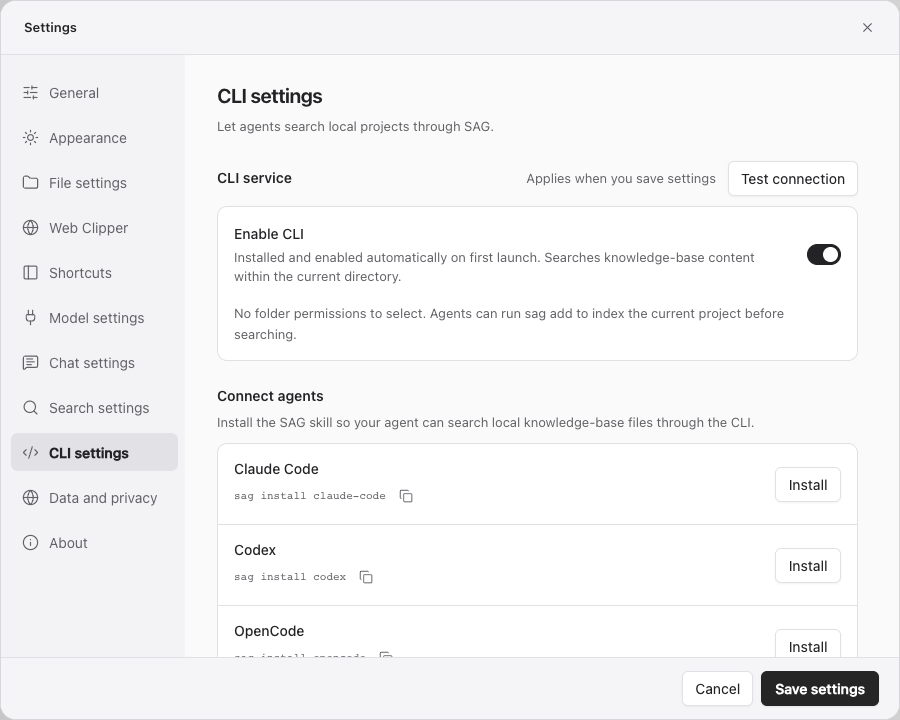
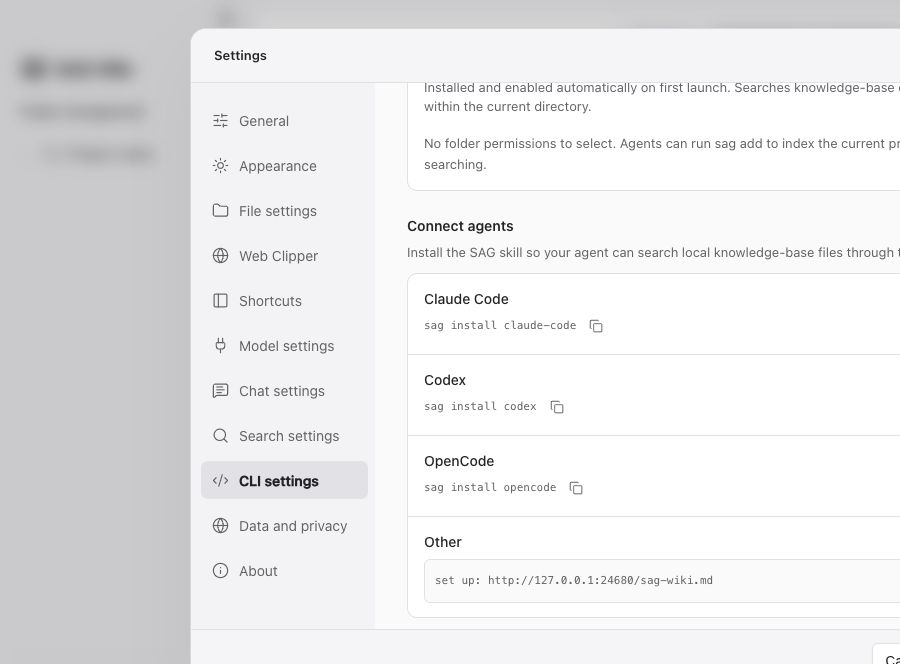
Serve local SAG skill setup instructions
(cherry picked from commit ead6b613383a43184bada34894c6c55208d54454)

diff --git a/tests/cli-settings.test.ts b/tests/cli-settings.test.ts
@@ -11,24 +11,21 @@ const value:Settings={answer:{url:'https://example.com/v1',model:'test',models:[
 let installed=new Set(['cli']);
 beforeEach(()=>{installed=new Set(['cli']);setLanguage('zh-CN');invoke.mockImplementation(async(command,args)=>{
  if(command==='list_roots')return [{path:'/project',name:'Project',status:'ready',count:5,error:null}];
- if(command==='get_cli_settings')return {access:{enabled:false,roots:[]},installations:['cli','claude-code','codex','opencode'].map(name=>({name,path:`/home/skills/${name}`,installed:installed.has(name),version:installed.has(name)?'0.1.0':null}))};
+ if(command==='get_cli_settings')return {skill_url:'http://127.0.0.1:24680/sag-wiki.md',access:{enabled:false,roots:[]},installations:['cli','claude-code','codex','opencode'].map(name=>({name,path:`/home/skills/${name}`,installed:installed.has(name),version:installed.has(name)?'0.1.0':null}))};
  if(command==='install_cli_integration'){args.uninstall?installed.delete(args.target):installed.add(args.target);return 'installed';}
 });});
 afterEach(async()=>{await unmount(app);document.body.innerHTML='';vi.useRealTimers();vi.clearAllMocks();vi.restoreAllMocks();});
 function click(text:string){const button=[...document.querySelectorAll<HTMLButtonElement>('button')].find(button=>button.textContent?.trim()===text);expect(button,text).toBeDefined();button!.click();}
 async function ready(){await vi.waitFor(()=>expect(document.querySelector('[aria-label="启用 CLI"]')).not.toBeNull());}
-it('Windows Skill 安装位置与下载提示显示普通路径',async()=>{
+it('Windows Skill 安装位置显示普通路径',async()=>{
  const path=String.raw`\\?\C:\Users\PC\skills\sag`;
  invoke.mockImplementation(async command=>{
-  if(command==='get_cli_settings')return{access:{enabled:false,roots:[]},installations:[{name:'codex',path,installed:true,version:'0.1.0'}]};
-  if(command==='download_cli_skill')return path;
+  if(command==='get_cli_settings')return{skill_url:'http://127.0.0.1:24680/sag-wiki.md',access:{enabled:false,roots:[]},installations:[{name:'codex',path,installed:true,version:'0.1.0'}]};
  });
  app=mount(SettingsPanel,{target:document.body,props:{value,initial:'cli',onSave:vi.fn(),onClose:vi.fn()}});await ready();
  document.querySelector<HTMLButtonElement>('.cli-location button')!.click();await tick();
  expect(document.querySelector('.cli-skill-path code')?.textContent).toBe(String.raw`C:\Users\PC\skills\sag`);
- document.querySelector<HTMLButtonElement>('[aria-label="下载 SAG Skill"]')!.click();
- await vi.waitFor(()=>expect(document.querySelector('.cli-feedback[role=status]')?.textContent).toContain(String.raw`C:\Users\PC\skills\sag`));
- expect(document.querySelector('.cli-feedback[role=status]')?.textContent).not.toContain('\\\\?\\');
+
 });
 
 it('saves CLI enabled changes only with the settings form, across tab switches and installation refreshes',async()=>{
@@ -82,7 +79,7 @@ it.each([['claude-code','Claude Code'],['codex','Codex'],['opencode','OpenCode']
  installed.clear();
  app=mount(SettingsPanel,{target:document.body,props:{value,initial:'cli',onSave:vi.fn(),onClose:vi.fn()}});await ready();
  expect(document.querySelectorAll('.cli-install-row')).toHaveLength(4);
- for(const row of document.querySelectorAll('.cli-install-row')){
+ for(const row of [...document.querySelectorAll('.cli-install-row')].slice(0,3)){
   expect(row.querySelectorAll('.cli-action')).toHaveLength(1);
   expect(row.textContent).not.toMatch(/已安装|未安装/);
  }
@@ -288,37 +285,37 @@ it('shows the usage guide last, collapsed by default, without submitting setting
  expect(trigger.getAttribute('aria-expanded')).toBe('false');
 });
 
-it('downloads the complete skill through the last Other row without installing an integration',async()=>{
+it('copies the local setup instruction from Other without installing or downloading',async()=>{
+ const writeText=vi.spyOn(navigator.clipboard,'writeText').mockResolvedValue(undefined);
  app=mount(SettingsPanel,{target:document.body,props:{value,initial:'cli',onSave:vi.fn(),onClose:vi.fn()}});await ready();
- const rows=document.querySelectorAll('.cli-install-row');
- expect(rows[rows.length-1].textContent).toContain('其他');
- expect(rows[rows.length-1].textContent).toContain('下载完整 Skill 文件夹');
- const download=document.querySelector<HTMLButtonElement>('[aria-label="下载 SAG Skill"]')!;
- expect(download.textContent).toBe('下载');
- invoke.mockImplementationOnce(async()=>'/Downloads/sag');download.click();
- await vi.waitFor(()=>expect(document.querySelector('.cli-feedback[role=status]')?.textContent).toContain('/Downloads/sag'));
- expect(invoke).toHaveBeenCalledWith('download_cli_skill',{title:'选择 Skill 保存位置'});
- expect(invoke.mock.calls.some(([command])=>command==='install_cli_integration')).toBe(false);
- expect(download.textContent).toBe('下载');
+ const row=document.querySelectorAll('.cli-install-row')[3];
+ expect(row.textContent).toContain('其他');
+ expect(row.querySelector('code')?.textContent).toBe('set up: http://127.0.0.1:24680/sag-wiki.md');
+ expect(row.textContent).not.toContain('下载');
+ row.querySelector<HTMLButtonElement>('[aria-label="复制其他 Agent 安装指令"]')!.click();
+ await vi.waitFor(()=>expect(document.querySelector('.cli-feedback[role=status]')?.textContent).toContain('已复制 其他 Agent 的安装命令'));
+ expect(writeText).toHaveBeenCalledWith('set up: http://127.0.0.1:24680/sag-wiki.md');
+ expect(invoke.mock.calls.some(([command])=>command==='install_cli_integration'||command==='download_cli_skill')).toBe(false);
 });
 
-it('keeps cancellation silent and makes a failed download retryable',async()=>{
+it('shows copy failures and allows retrying the local setup instruction',async()=>{
+ const writeText=vi.spyOn(navigator.clipboard,'writeText').mockRejectedValueOnce(Error('Clipboard unavailable')).mockResolvedValue(undefined);
  app=mount(SettingsPanel,{target:document.body,props:{value,initial:'cli',onSave:vi.fn(),onClose:vi.fn()}});await ready();
- const download=document.querySelector<HTMLButtonElement>('[aria-label="下载 SAG Skill"]')!;
- invoke.mockResolvedValueOnce(null);download.click();await tick();
- await vi.waitFor(()=>expect(download.disabled).toBe(false));
- expect(document.querySelector('.cli-feedback')).toBeNull();
- invoke.mockRejectedValueOnce(Error('无法创建 Skill 文件夹'));download.click();
- await vi.waitFor(()=>expect(document.querySelector('.cli-error')?.textContent).toContain('无法创建 Skill 文件夹'));
- expect(download.disabled).toBe(false);
+ const copy=document.querySelector<HTMLButtonElement>('[aria-label="复制其他 Agent 安装指令"]')!;
+ copy.click();
+ await vi.waitFor(()=>expect(document.querySelector('.cli-error')?.textContent).toContain('Clipboard unavailable'));
+ expect(copy.disabled).toBe(false);copy.click();
+ await vi.waitFor(()=>expect(document.querySelector('.cli-feedback[role=status]')?.textContent).toContain('已复制'));
+ expect(writeText).toHaveBeenCalledTimes(2);expect(document.querySelector('.cli-error')).toBeNull();
 });
 
-it('translates the download row and success message',async()=>{
+it('translates the local setup row and copy feedback',async()=>{
+ vi.spyOn(navigator.clipboard,'writeText').mockResolvedValue(undefined);
  app=mount(SettingsPanel,{target:document.body,props:{value,initial:'cli',onSave:vi.fn(),onClose:vi.fn()}});await ready();
  setLanguage('en');await tick();
- const download=document.querySelector<HTMLButtonElement>('[aria-label="Download SAG Skill"]')!;
+ const copy=document.querySelector<HTMLButtonElement>('[aria-label="Copy setup instruction for other agents"]')!;
  expect(document.querySelectorAll('.cli-install-row')[3].textContent).toContain('Other');
- invoke.mockResolvedValueOnce('/Downloads/sag');download.click();
- await vi.waitFor(()=>expect(document.querySelector('.cli-feedback[role=status]')?.textContent).toContain('Skill downloaded to /Downloads/sag'));
- expect(invoke).toHaveBeenCalledWith('download_cli_skill',{title:'Choose where to save the Skill'});
+ copy.click();
+ await vi.waitFor(()=>expect(document.querySelector('.cli-feedback[role=status]')?.textContent).toContain('Other agents'));
+ expect(document.querySelector('code[aria-label="Setup instruction for other agents"]')?.textContent).toBe('set up: http://127.0.0.1:24680/sag-wiki.md');
 });

diff --git a/src/components/CliSettings.svelte b/src/components/CliSettings.svelte
@@ -16,10 +16,10 @@
  export let connectionOpen=false;
  export let connectionSuccessUntil=0;
  type Installation={name:string;path:string;installed:boolean;version:string|null};
- let installations:Installation[]=[],loaded=false,error='',notice='';
+ let installations:Installation[]=[],loaded=false,error='',notice='',skillUrl='';
  let connectionSuccessVisible=false,disposed=false;
  let connectionTimer:ReturnType<typeof setTimeout>|undefined;
- let operation:{target:string;kind:'install'|'uninstall'|'test'|'download'}|null=null;
+ let operation:{target:string;kind:'install'|'uninstall'|'test'}|null=null;
  let copiedCommand:string|null=null;
  let savedAccess:CliAccess|undefined;
  const successFadeDuration=window.matchMedia('(prefers-reduced-motion: reduce)').matches?0:800;
@@ -41,10 +41,10 @@
  }
 
  async function load(){
-  const config=await api<{access:CliAccess;installations:Installation[];install_error?:string|null}>('get_cli_settings');
+  const config=await api<{access:CliAccess;installations:Installation[];install_error?:string|null;skill_url:string}>('get_cli_settings');
   savedAccess=config.access;
   access=access??config.access;
-  installations=config.installations;error=config.install_error??'';loaded=true;
+  installations=config.installations;skillUrl=config.skill_url;error=config.install_error??'';loaded=true;
  }
  async function refresh(){pending=true;error='';try{await load();}catch(e){error=String(e);}finally{pending=false;}}
  onMount(()=>{void refresh();});
@@ -60,8 +60,8 @@
  async function copyCommand(name:string){
   error='';notice='';copiedCommand=null;
   try{
-   await navigator.clipboard.writeText(`sag install ${name}`);
-   copiedCommand=name;notice=$t('已复制 {value0} 的安装命令',{value0:names[name]});
+   await navigator.clipboard.writeText(name==='other'?`set up: ${skillUrl}`:`sag install ${name}`);
+   copiedCommand=name;notice=$t('已复制 {value0} 的安装命令',{value0:name==='other'?$t('其他 Agent'):names[name]});
   }catch(e){error=$t('复制失败：{value0}',{value0:String(e)});}
  }
  async function testConnection(){
@@ -74,13 +74,6 @@
    const result=await api<string>('test_cli_connection');
    if(!disposed){connectionSuccessUntil=Date.now()+3000;connection=result;}
   }catch(e){if(!disposed)error=String(e);}finally{pending=false;operation=null;}
- }
- async function downloadSkill(){
-  pending=true;error='';notice='';operation={target:'other',kind:'download'};
-  try{
-   const path=await api<string|null>('download_cli_skill',{title:$t('选择 Skill 保存位置')});
-   if(path)notice=$t('Skill 已下载到 {value0}。请将 sag 文件夹添加到所用工具的 Skills 目录。',{value0:displayPath(path)});
-  }catch(e){error=String(e);}finally{pending=false;operation=null;}
  }
 </script>
 
@@ -118,8 +111,7 @@
      </div>
     {/each}
     <div class="cli-install-row">
-     <div class="cli-install-info"><strong>{$t('其他')}</strong><p class="cli-download-description">{$t('下载完整 Skill 文件夹，接入到其他Agent。')}</p></div>
-     <Button.Root type="button" class="outline cli-action" disabled={disabled} aria-label={$t('下载 SAG Skill')} onclick={downloadSkill}>{operation?.kind==='download'?$t('下载中…'):$t('下载')}</Button.Root>
+     <div class="cli-install-info"><strong>{$t('其他')}</strong><p class="cli-setup-hint">{$t('复制以下指令，发送给你的 Agent 完成接入。')}</p><div class="cli-command-copy cli-setup-copy"><code class="cli-install-command" aria-label={$t('其他 Agent 的安装指令')}>set up: {skillUrl}</code><Button.Root type="button" class="icon-button cli-copy" disabled={disabled} aria-label={$t('复制其他 Agent 安装指令')} title={copiedCommand==='other'?$t('已复制'):$t('复制安装命令')} onclick={()=>copyCommand('other')}>{@html icon(copiedCommand==='other'?'check':'copy')}</Button.Root></div></div>
     </div>
    </div>
   </section>
@@ -197,7 +189,6 @@ sag --help</code></pre>
  .cli-install-row{display:flex;align-items:center;gap:12px;padding:14px 16px;min-height:68px}
  .cli-install-row+.cli-install-row{border-top:1px solid var(--color-rule)}
  .cli-install-info{flex:1;min-width:0}
- .cli-download-description{margin:4px 0 0;font-size:var(--text-caption);line-height:1.5;color:var(--color-secondary)}
  .cli-settings :global(.cli-action){min-width:66px;min-height:32px;white-space:nowrap;flex-shrink:0}
  .cli-settings :global(.cli-action.cli-uninstall){background:var(--color-danger);border-color:var(--color-danger);color:var(--color-danger-ink)}
  .cli-settings :global(button:disabled){opacity:.5;cursor:default}
@@ -211,6 +202,9 @@ sag --help</code></pre>
  .cli-settings :global(.cli-location-content code){display:block;overflow-wrap:anywhere;font:11px/1.6 var(--font-mono)}
  .cli-settings :global(.cli-location-content p){margin:6px 0 0}
  .cli-command-copy{display:flex;align-items:center;gap:6px;margin-top:3px}
+ .cli-setup-hint{margin:4px 0 0;font-size:var(--text-caption);line-height:1.6;color:var(--color-secondary)}
+ .cli-setup-copy{padding:7px 10px;margin-top:7px;border:1px solid var(--color-rule);border-radius:6px;background:var(--color-panel)}
+ .cli-setup-copy code{flex:1;min-width:0}
  .cli-settings :global(.cli-copy){display:inline-flex;align-items:center;justify-content:center;width:28px;height:28px;flex-shrink:0;color:var(--color-secondary)}
  .cli-settings :global(.cli-copy .icon){width:14px;height:14px}
  .cli-install-command{display:block;user-select:text;overflow-wrap:anywhere;font:11px/1.6 var(--font-mono);color:var(--color-secondary)}

diff --git a/bench/docs.ts b/bench/docs.ts
@@ -36,7 +36,7 @@ const graphEdges=[{source:1,target:2,source_hash:'demo-0',target_hash:'demo-1',s
 const handlers:Record<string,(a:any)=>any>={
  explore_overview:()=>({scope:root,version:1,total:docs.length,documents:graphDocs,known_documents:graphDocs,indexing:false,partial:false}),explore_graph:()=>({scope:root,version:1,snapshot:'demo',documents:graphDocs,edges:graphEdges}),
  get_settings:()=>structuredClone(settings),list_roots:()=>roots,list_files:()=>docs.map(({body,...d})=>d),list_entries:()=>docs.map(d=>({path:d.path,name:d.name,directory:false,symlink:false})),get_index_status:()=>({paused:false,tasks:[]}),list_drafts:()=>[],list_removed_directories:()=>[],list_notes:()=>[],list_conversations:()=>[conversation,{...conversation,id:'previous',title:text('如何收集试用反馈？','How do we collect trial feedback?'),updated:now-86400000}],get_conversation:()=>conversation,read_document:a=>docs.find(d=>d.path===a.path)||docs[0],get_index_history:()=>history,get_index_history_log:()=>({raw:docs.map(d=>JSON.stringify({time:now,path:d.path,stage:'indexing',status:'complete',error:null})).join('\n')+'\n'+JSON.stringify({time:now,path:root+'/archive.pdf',stage:'converting',status:'failed',error:'File cannot be read'})}),
- run_query:()=>({terms:[text('发布','release')],elapsed_ms:120,results:evidence,pagination:null,trace:[],conversation}),summarize_search:()=>({text:answer,evidence}),get_docling_status:()=>docling,docling_status:()=>docling,get_cli_settings:()=>({access:{enabled:true},installations:['claude-code','codex','opencode'].map(name=>({name,path:'',installed:false,version:null}))}),get_web_clipper:()=>({packages:['chrome','safari']}),get_folder_index_options:()=>({file_types:{markdown:true,text:true,code:false,config:false},convert_other_formats:false,conversion_formats:[]}),check_updates:()=>({current_version:version,latest_version:version,available:false,notes:'',download_url:null}),
+ run_query:()=>({terms:[text('发布','release')],elapsed_ms:120,results:evidence,pagination:null,trace:[],conversation}),summarize_search:()=>({text:answer,evidence}),get_docling_status:()=>docling,docling_status:()=>docling,get_cli_settings:()=>({skill_url:'http://127.0.0.1:24680/sag-wiki.md',access:{enabled:true},installations:['claude-code','codex','opencode'].map(name=>({name,path:'',installed:false,version:null}))}),get_web_clipper:()=>({packages:['chrome','safari']}),get_folder_index_options:()=>({file_types:{markdown:true,text:true,code:false,config:false},convert_other_formats:false,conversion_formats:[]}),check_updates:()=>({current_version:version,latest_version:version,available:false,notes:'',download_url:null}),
 };
 (window as any).__TAURI_INTERNALS__={metadata:{currentWindow:{label:'main'},currentWebview:{windowLabel:'main',label:'main'}},invoke:async(command:string,args:any={})=>handlers[command]?handlers[command](args):command.startsWith('plugin:')?0:null,transformCallback:()=>1,unregisterCallback:()=>{},convertFileSrc:(path:string)=>path};
 (window as any).__TAURI_EVENT_PLUGIN_INTERNALS__={unregisterListener:()=>{}};

diff --git a/core/src/skill_http.rs b/core/src/skill_http.rs
@@ -1,0 +1,39 @@
+use anyhow::{bail, Context, Result};
+use tokio::{io::{AsyncBufReadExt, AsyncReadExt, AsyncWriteExt, BufReader}, net::TcpStream};
+
+const SKILL: &str = include_str!("../../cli/skills/sag/SKILL.md");
+
+// Only bundled, public instructions are exposed here; RPC keeps its token authentication.
+pub async fn serve(mut stream: TcpStream) -> Result<()> {
+    let request = tokio::time::timeout(std::time::Duration::from_secs(10), async {
+        let mut reader = BufReader::new(&mut stream);
+        let mut bytes = Vec::new();
+        loop {
+            let start = bytes.len();
+            let count = (&mut reader).take((8193 - start) as u64).read_until(b'\n', &mut bytes).await?;
+            if count == 0 { bail!("HTTP 请求未完成") }
+            if bytes.len() > 8192 { bail!("HTTP 请求头超过上限") }
+            if matches!(&bytes[start..], b"\r\n" | b"\n") { break; }
+        }
+        Ok::<_, anyhow::Error>(bytes)
+    }).await.context("HTTP 请求超时")??;
+    let line = std::str::from_utf8(request.split(|byte| *byte == b'\n').next().unwrap())?;
+    let mut parts = line.split_whitespace();
+    let (method, path, version) = (parts.next(), parts.next(), parts.next());
+    let (status, body) = match (method, path, version) {
+        (Some("GET" | "HEAD"), Some(path), Some("HTTP/1.0" | "HTTP/1.1")) => match path {
+            "/sag-wiki.md" | "/SKILL.md" => ("200 OK", SKILL),
+            "/references/setup.md" => ("200 OK", include_str!("../../cli/skills/sag/references/setup.md")),
+            "/references/parameters.md" => ("200 OK", include_str!("../../cli/skills/sag/references/parameters.md")),
+            "/references/ignores.md" => ("200 OK", include_str!("../../cli/skills/sag/references/ignores.md")),
+            _ => ("404 Not Found", "Not found\n"),
+        },
+        (Some(_), Some(_), Some("HTTP/1.0" | "HTTP/1.1")) => ("405 Method Not Allowed", "Use GET or HEAD\n"),
+        _ => ("400 Bad Request", "Bad request\n"),
+    };
+    let headers = format!("HTTP/1.1 {status}\r\nContent-Type: text/markdown; charset=utf-8\r\nContent-Length: {}\r\nCache-Control: no-store\r\nX-Content-Type-Options: nosniff\r\nConnection: close\r\n\r\n", body.len());
+    stream.write_all(headers.as_bytes()).await?;
+    if method != Some("HEAD") { stream.write_all(body.as_bytes()).await?; }
+    stream.shutdown().await?;
+    Ok(())
+}

diff --git a/core/src/service_tests.rs b/core/src/service_tests.rs
@@ -1269,3 +1269,35 @@ async fn save_note_writes_an_anchored_file_and_tracks_source_changes() {
     assert_eq!(all.len(), 1);
     stop(&client, server).await;
 }
+
+#[tokio::test]
+async fn local_skill_http_serves_bundled_files_without_affecting_rpc() {
+    let (dir, client, server) = start().await;
+    let endpoint: Endpoint = serde_json::from_slice(
+        &std::fs::read(dir.path().join("data/sag-service.json")).unwrap(),
+    ).unwrap();
+    let base = format!("http://127.0.0.1:{}", endpoint.port);
+    let http = reqwest::Client::new();
+    for (path, expected) in [
+        ("/sag-wiki.md", include_str!("../../cli/skills/sag/SKILL.md")),
+        ("/SKILL.md", include_str!("../../cli/skills/sag/SKILL.md")),
+        ("/references/setup.md", include_str!("../../cli/skills/sag/references/setup.md")),
+        ("/references/parameters.md", include_str!("../../cli/skills/sag/references/parameters.md")),
+        ("/references/ignores.md", include_str!("../../cli/skills/sag/references/ignores.md")),
+    ] {
+        let response = http.get(format!("{base}{path}")).send().await.unwrap();
+        assert_eq!(response.status(), 200);
+        assert_eq!(response.headers()["content-type"], "text/markdown; charset=utf-8");
+        assert_eq!(response.text().await.unwrap(), expected);
+    }
+    let head = http.head(format!("{base}/sag-wiki.md")).send().await.unwrap();
+    assert_eq!(head.status(), 200);
+    assert_eq!(head.headers()["content-length"], include_str!("../../cli/skills/sag/SKILL.md").len().to_string());
+    assert!(head.bytes().await.unwrap().is_empty());
+    for path in ["/credentials.json", "/references/other.md", "/sag-service.json"] {
+        assert_eq!(http.get(format!("{base}{path}")).send().await.unwrap().status(), 404);
+    }
+    assert_eq!(http.post(format!("{base}/sag-wiki.md")).send().await.unwrap().status(), 405);
+    assert!(matches!(call(&client, Operation::Info).await, Output::Info(_)));
+    stop(&client, server).await;
+}

diff --git a/src-tauri/src/cli_commands.rs b/src-tauri/src/cli_commands.rs
@@ -10,6 +10,7 @@ pub struct IntegrationSettings {
     access: Access,
     installations: Vec<install::Installation>,
     install_error: Option<String>,
+    skill_url: String,
 }
 #[tauri::command]
 pub async fn get_cli_settings(
@@ -24,9 +25,14 @@ pub async fn get_cli_settings(
                 .map_err(error)?,
         );
     }
+    let access = serde_json::from_value(rpc(&state, Operation::GetAccess).await?).map_err(error)?;
+    let endpoint: sag_protocol::Endpoint = serde_json::from_slice(
+        &std::fs::read(state.data_dir.join("sag-service.json")).map_err(error)?,
+    ).map_err(error)?;
     Ok(IntegrationSettings {
-        access: serde_json::from_value(rpc(&state, Operation::GetAccess).await?).map_err(error)?,
+        access,
         install_error: state.cli_install_error.lock().unwrap().clone(),
+        skill_url: format!("http://127.0.0.1:{}/sag-wiki.md", endpoint.port),
         installations,
     })
 }

diff --git a/core/src/server.rs b/core/src/server.rs
@@ -105,6 +105,13 @@ async fn serve(
     requests: Arc<Semaphore>,
 ) -> Result<()> {
     stream.set_nodelay(true)?;
+    let mut first = [0u8; 1];
+    if tokio::time::timeout(Duration::from_secs(10), stream.peek(&mut first)).await?? == 0 {
+        return Ok(());
+    }
+    if first[0].is_ascii_alphabetic() {
+        return crate::skill_http::serve(stream).await;
+    }
     let (read, write) = stream.into_split();
     let mut read = BufReader::new(read);
     let write = Arc::new(tokio::sync::Mutex::new(write));

diff --git a/core/src/lib.rs b/core/src/lib.rs
@@ -26,3 +26,4 @@ pub mod protocol;
 pub mod explore;
 pub mod service;
 pub mod server;
+mod skill_http;

diff --git a/cli/skills/sag/references/setup.md b/cli/skills/sag/references/setup.md
@@ -15,7 +15,7 @@ When asked to install this Skill and enable SAG for a project, complete the appl
 
    The npm package supports macOS Apple Silicon and Windows x64, and requires Node.js 18 or later. Check the actual system and architecture before installation. If Node.js or npm is missing, arrange Node.js installation through the user's existing package manager or [official installer](https://nodejs.org/en/download), within the environment's permissions. Report an unsupported platform or installation failure directly; source compilation is not part of normal setup. npm owns this command's installation and PATH entry; an additional `sag install cli` is unnecessary.
 
-2. Install the current Skill folder for the active agent at the [location below](#installation-and-removal), including `SKILL.md` and all three references: `setup.md`, `parameters.md`, and `ignores.md`. Retrieve all four files from the [canonical GitHub folder](https://github.com/Zleap-AI/SAG-Wiki/tree/main/cli/skills/sag), without building the repository. Preserve user-edited files and unrelated skills. The npm CLI embeds a release-time Skill snapshot, so `sag install codex`, `sag install claude-code`, or `sag install opencode` may supply older instructions. Keep the GitHub version when following this setup. A new agent session loads it automatically; use the instructions already read to finish the current setup.
+2. Install the current Skill folder for the active agent at the [location below](#installation-and-removal), including `SKILL.md` and all three references: `setup.md`, `parameters.md`, and `ignores.md`. Retrieve all four files from the source URL the user supplied; save a local `sag-wiki.md` entry as `SKILL.md` and keep the `references/` subdirectory. When no source was supplied, use the [canonical GitHub folder](https://github.com/Zleap-AI/SAG-Wiki/tree/main/cli/skills/sag). Preserve user-edited files and unrelated skills. The npm CLI embeds a release-time Skill snapshot, so retain the explicitly supplied version when following this setup. A new agent session loads it automatically; use the instructions already read to finish the current setup.
 
 3. Run `sag config --if-needed` to reuse existing Jev settings. For a user-supplied unauthenticated Jev service, configure `--auth none` as described below. If Bearer authentication needs a key, have the user run `sag` in an interactive terminal and enter their Jev endpoint, model and API key there. The key input is hidden. If credentials were already supplied through a secure local source, use `sag config --key-stdin` as described below. Do not request keys in chat. Only the Jev retrieval configuration is required for CLI semantic search; a desktop answer model is unnecessary.
 

diff --git a/cli/skills/sag/SKILL.md b/cli/skills/sag/SKILL.md
@@ -9,7 +9,7 @@ Run the installed `sag` command from the project directory, not this Skill direc
 
 For installation requests or a missing `sag` command, follow [first-use setup](references/setup.md#first-use-setup). Install the standalone CLI through `npm install -g @zleap-ai/sag`; SAG Wiki desktop is optional. Reuse an existing CLI and configuration.
 
-The canonical installation entry is [this GitHub SKILL.md](https://github.com/Zleap-AI/SAG-Wiki/blob/main/cli/skills/sag/SKILL.md). For installation requests, retrieve it and all sibling references from the [same source folder](https://github.com/Zleap-AI/SAG-Wiki/tree/main/cli/skills/sag), then install them for the current agent. Use that GitHub version throughout setup; an older CLI's bundled Skill may predate these instructions.
+For installation requests, retrieve this entry and its three linked references from the source URL supplied by the user, then install them for the current agent. A local `/sag-wiki.md` entry is served by the running SAG Wiki service; save it as `SKILL.md` and resolve `references/` against the same local URL. Reuse the installed CLI and its configuration. When no source is supplied, use the [canonical GitHub SKILL.md](https://github.com/Zleap-AI/SAG-Wiki/blob/main/cli/skills/sag/SKILL.md) and [its source folder](https://github.com/Zleap-AI/SAG-Wiki/tree/main/cli/skills/sag).
 
 ## Search
 
